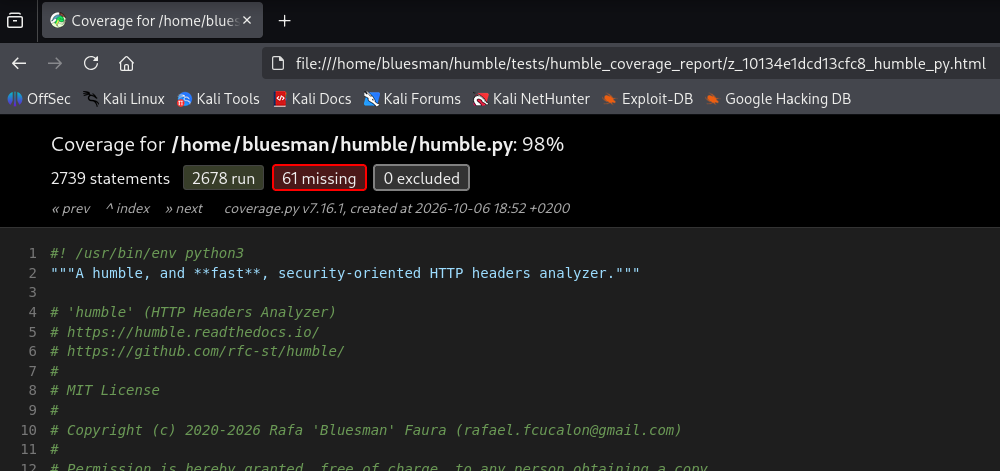
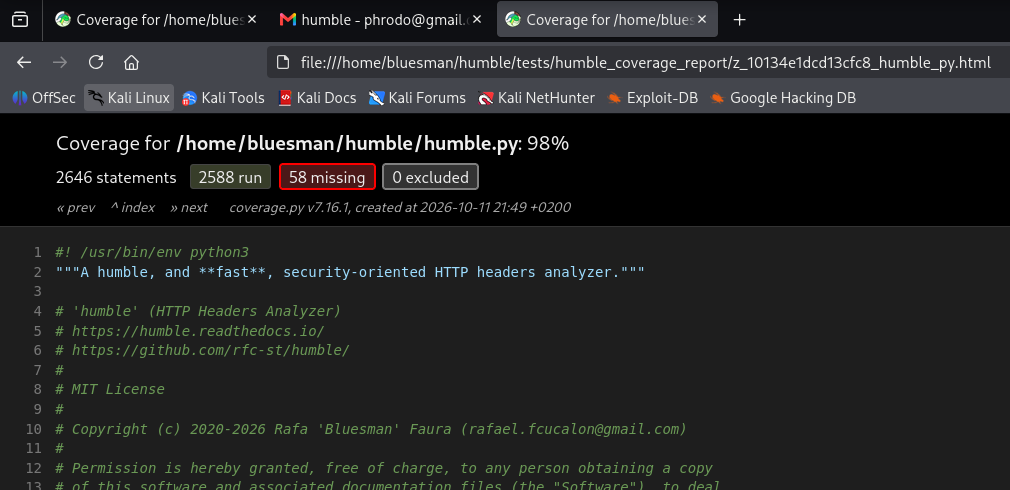
Feature: Empty headers are now treated as not sent

Changed region(s): [[0.0, 0.0, 1.0, 0.5945], [0.0, 0.6242, 0.713, 1.0]]

diff --git a/tests/test_humble.py b/tests/test_humble.py
@@ -64,6 +64,8 @@ EXTENDED_TAGS = ["[test_python_version]", "[test_missing_arguments]",
                  "[test_csp_fallback_present]", "[test_csp_tokens]",
                  "[test_permissions_format]", "[test_unreliable_analysis]",
                  "[test_export_csv_brackets]", "[test_export_json_brackets]",
+                 "[test_empty_headers]",
+                 "[test_export_json_no_security_headers]",
                  "[test_sanitize_header_value]",
                  "[test_strip_response_headers_sanitized]",
                  "[test_testssl_command]", "[test_testssl_command_declined]",
@@ -90,6 +92,7 @@ HUMBLE_TEST_FILES = {
     "CSP_STRICT_DYNAMIC": "headers_test_csp_strict_dynamic.txt",
     "CSP_TOKENS": "headers_test_csp_tokens.txt",
     "CSP_UNSAFE_INLINE": "headers_test_csp_unsafe_inline.txt",
+    "EMPTY": "headers_test_empty.txt",
     "PERMISSIONS_FORMAT": "headers_test_permissions_format.txt",
     "NO_HEADERS": "headers_test_none.txt",
     "NO_SEC_HEADERS": "headers_test_nonesecurity.txt",
@@ -970,6 +973,34 @@ def test_export_json_brackets(tmp_path):
     content = (tmp_path / "humble_brackets.json").read_text(encoding="utf-8")
     assert '"Value": "prefs=[1,2]"' in content
     assert '"[1,2]": [' not in content
+
+
+def test_empty_headers():
+    """Verify empty headers are treated as not sent, except in section 5."""
+    result = subprocess.run(
+        [sys.executable, HUMBLE_MAIN_FILE, "-u", TEST_URLS[2], "-if",
+         PATHS["EMPTY"]],
+        capture_output=True,
+        text=True,
+        timeout=15,
+        encoding="utf-8",
+        errors="replace",
+        check=False,
+    )
+    output = result.stdout + result.stderr
+    assert "Enabled headers:               3" in output
+    assert "Fingerprint headers:           0" in output
+    assert "Empty headers:                 2" in output
+    assert "Strict-Transport-Security (" not in output
+
+
+def test_export_json_no_security_headers(tmp_path):
+    """Verify a JSON export keeps the 'no headers' message as plain text."""
+    run_test(["-u", TEST_URLS[2], "-if", PATHS["NO_SEC_HEADERS"], "-o", "json",
+              "-op", tmp_path, "-of", "humble_nosec"], "saved")
+    content = (tmp_path / "humble_nosec.json").read_text(encoding="utf-8")
+    assert '"No HTTP security headers are present."' in content
+    assert '"Header": "No HTTP security headers' not in content
 
 
 @pytest.fixture(scope="module")

diff --git a/humble.py b/humble.py
@@ -1924,10 +1924,8 @@ def get_fingerprint_detail(header, fng_line):
         print_header(header)
         return
     print_header(fng_line)
-    if header_value := headers_l[header.lower()]:
-        print(f" {get_detail('[fng_value]', replace=True)} '{header_value}'")
-    else:
-        print(get_detail("[empty_fng]", replace=True))
+    header_value = headers_l[header.lower()]
+    print(f" {get_detail('[fng_value]', replace=True)} '{header_value}'")
     print()
 
 
@@ -2995,7 +2993,7 @@ def json_detailed_format_add(json_lns, header_t, value_t):
             key, value = line.split(":", 1)
             result.append({header_t: key.strip(), value_t: value.strip()})
         else:
-            result.append({header_t: line, value_t: ""})
+            result.append(line)
     return result
 
 
@@ -4642,7 +4640,9 @@ if args.input_file is None:
     if body and is_html:
         http_equiv = re.findall(RE_PATTERN[8], body, re.IGNORECASE)
 
-headers_l = {header.lower(): value for header, value in headers.items()}
+# An empty header is treated as not sent: it is only reported in section 5.
+headers_l = {header.lower(): value for header, value in headers.items()
+             if value}
 
 # Export filename generation
 export_filename = None

diff --git a/docs/index.md b/docs/index.md
@@ -46,7 +46,7 @@ Rafa *'Bluesman'* Faura Cucalón; you can read about me on <a href="https://www.
 - Can display fingerprint statistics for a specific term or the Top 20.
 - Can display guidelines for enabling security HTTP response headers on popular frameworks, servers, and services.
 - <a href="https://github.com/rfc-st/humble/#AI" target="_blank">AI</a>-driven security triage and remediation guidance.
-- Provides over 130 <a href="https://github.com/rfc-st/humble/#unit-tests" target="_blank">unit tests</a> to help verify it works correctly in your environment; requires <a href="https://pypi.org/project/pytest/" target="_blank">pytest</a> and <a href="https://pypi.org/project/pytest-cov/">pytest-cov</a>.
+- Provides over 140 <a href="https://github.com/rfc-st/humble/#unit-tests" target="_blank">unit tests</a> to help verify it works correctly in your environment; requires <a href="https://pypi.org/project/pytest/" target="_blank">pytest</a> and <a href="https://pypi.org/project/pytest-cov/">pytest-cov</a>.
 - Code regularly audited with several quality, style and security <a href="https://github.com/rfc-st/humble/?tab=readme-ov-file#quality-style-and-security-tools" target="_blank">tools</a>.<br />
 - Tested, one by one, on thousands of URLs.
 - Tested on Docker 26.1, Kali Linux 2021.1, macOS 14.2.1 and Windows 10 20H2.

diff --git a/README.md b/README.md
@@ -92,7 +92,7 @@
 :heavy_check_mark: Can display guidelines for enabling security HTTP response headers on popular frameworks, servers, and services.<br />
 :heavy_check_mark: Can exclude HTTP response headers across all analyses via [humble.skip](#global-humbleskip) file.<br />
 :heavy_check_mark: [AI](#AI)-driven security triage and remediation guidance.<br />
-:heavy_check_mark: Includes over 130 [unit tests](#unit-tests) to help verify it works correctly in your environment; requires <a href="https://pypi.org/project/pytest/" target="_blank">pytest</a> and <a href="https://pypi.org/project/pytest-cov/">pytest-cov</a>.<br />
+:heavy_check_mark: Includes over 140 [unit tests](#unit-tests) to help verify it works correctly in your environment; requires <a href="https://pypi.org/project/pytest/" target="_blank">pytest</a> and <a href="https://pypi.org/project/pytest-cov/">pytest-cov</a>.<br />
 :heavy_check_mark: Classes and functions documented at <a href="https://humble.readthedocs.io/en/latest/" target="_blank">Read the Docs</a>.<br />
 :heavy_check_mark: Code regularly audited with several quality, style and security [tools](#quality-style-and-security-tools).<br />
 :heavy_check_mark: Tested, one by one, on thousands of URLs.<br />
